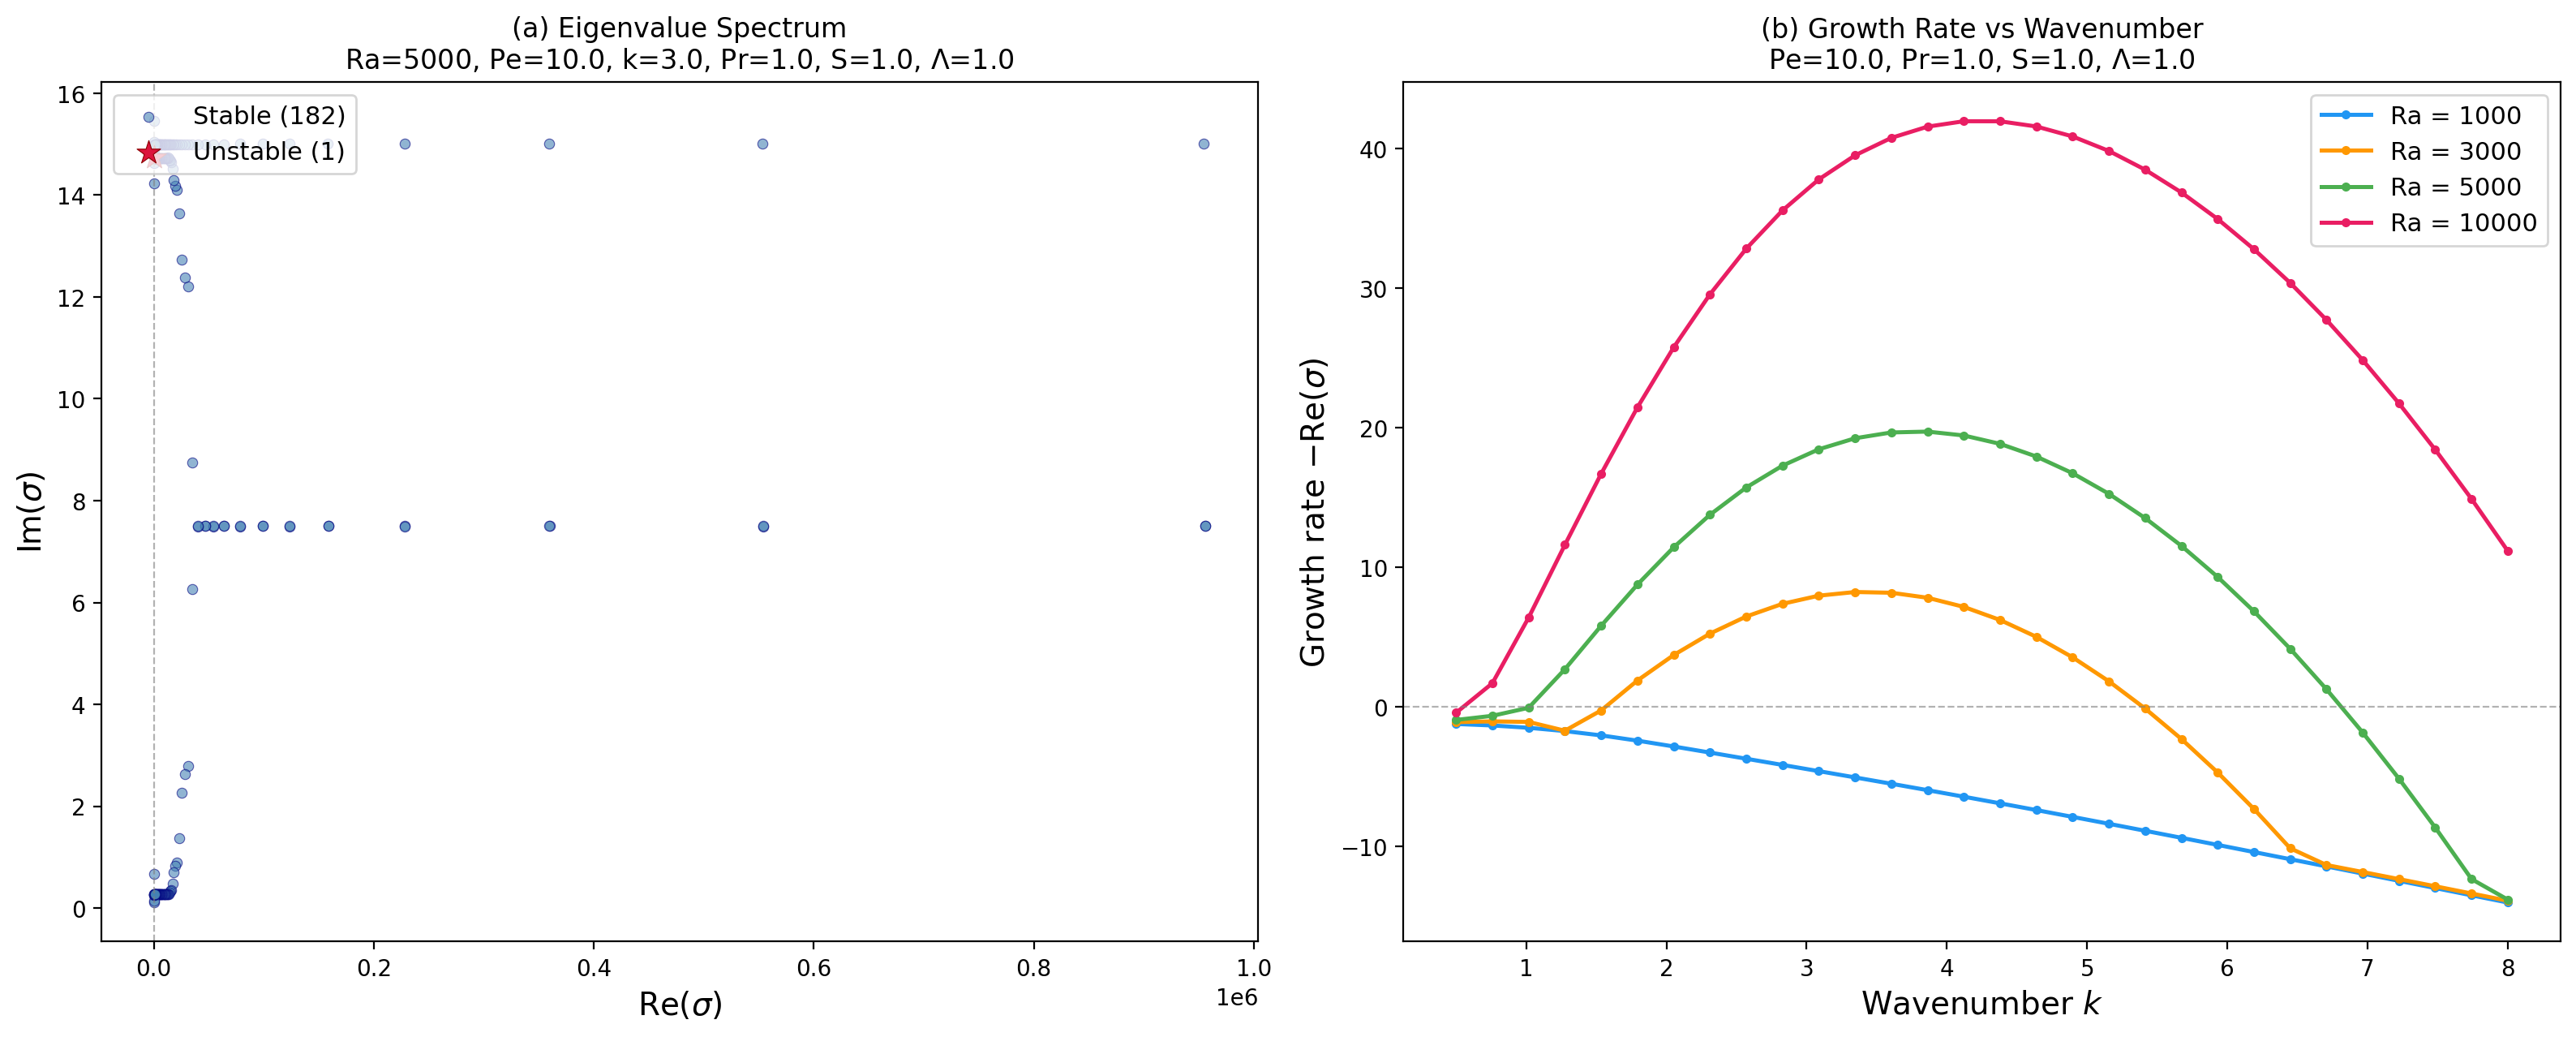
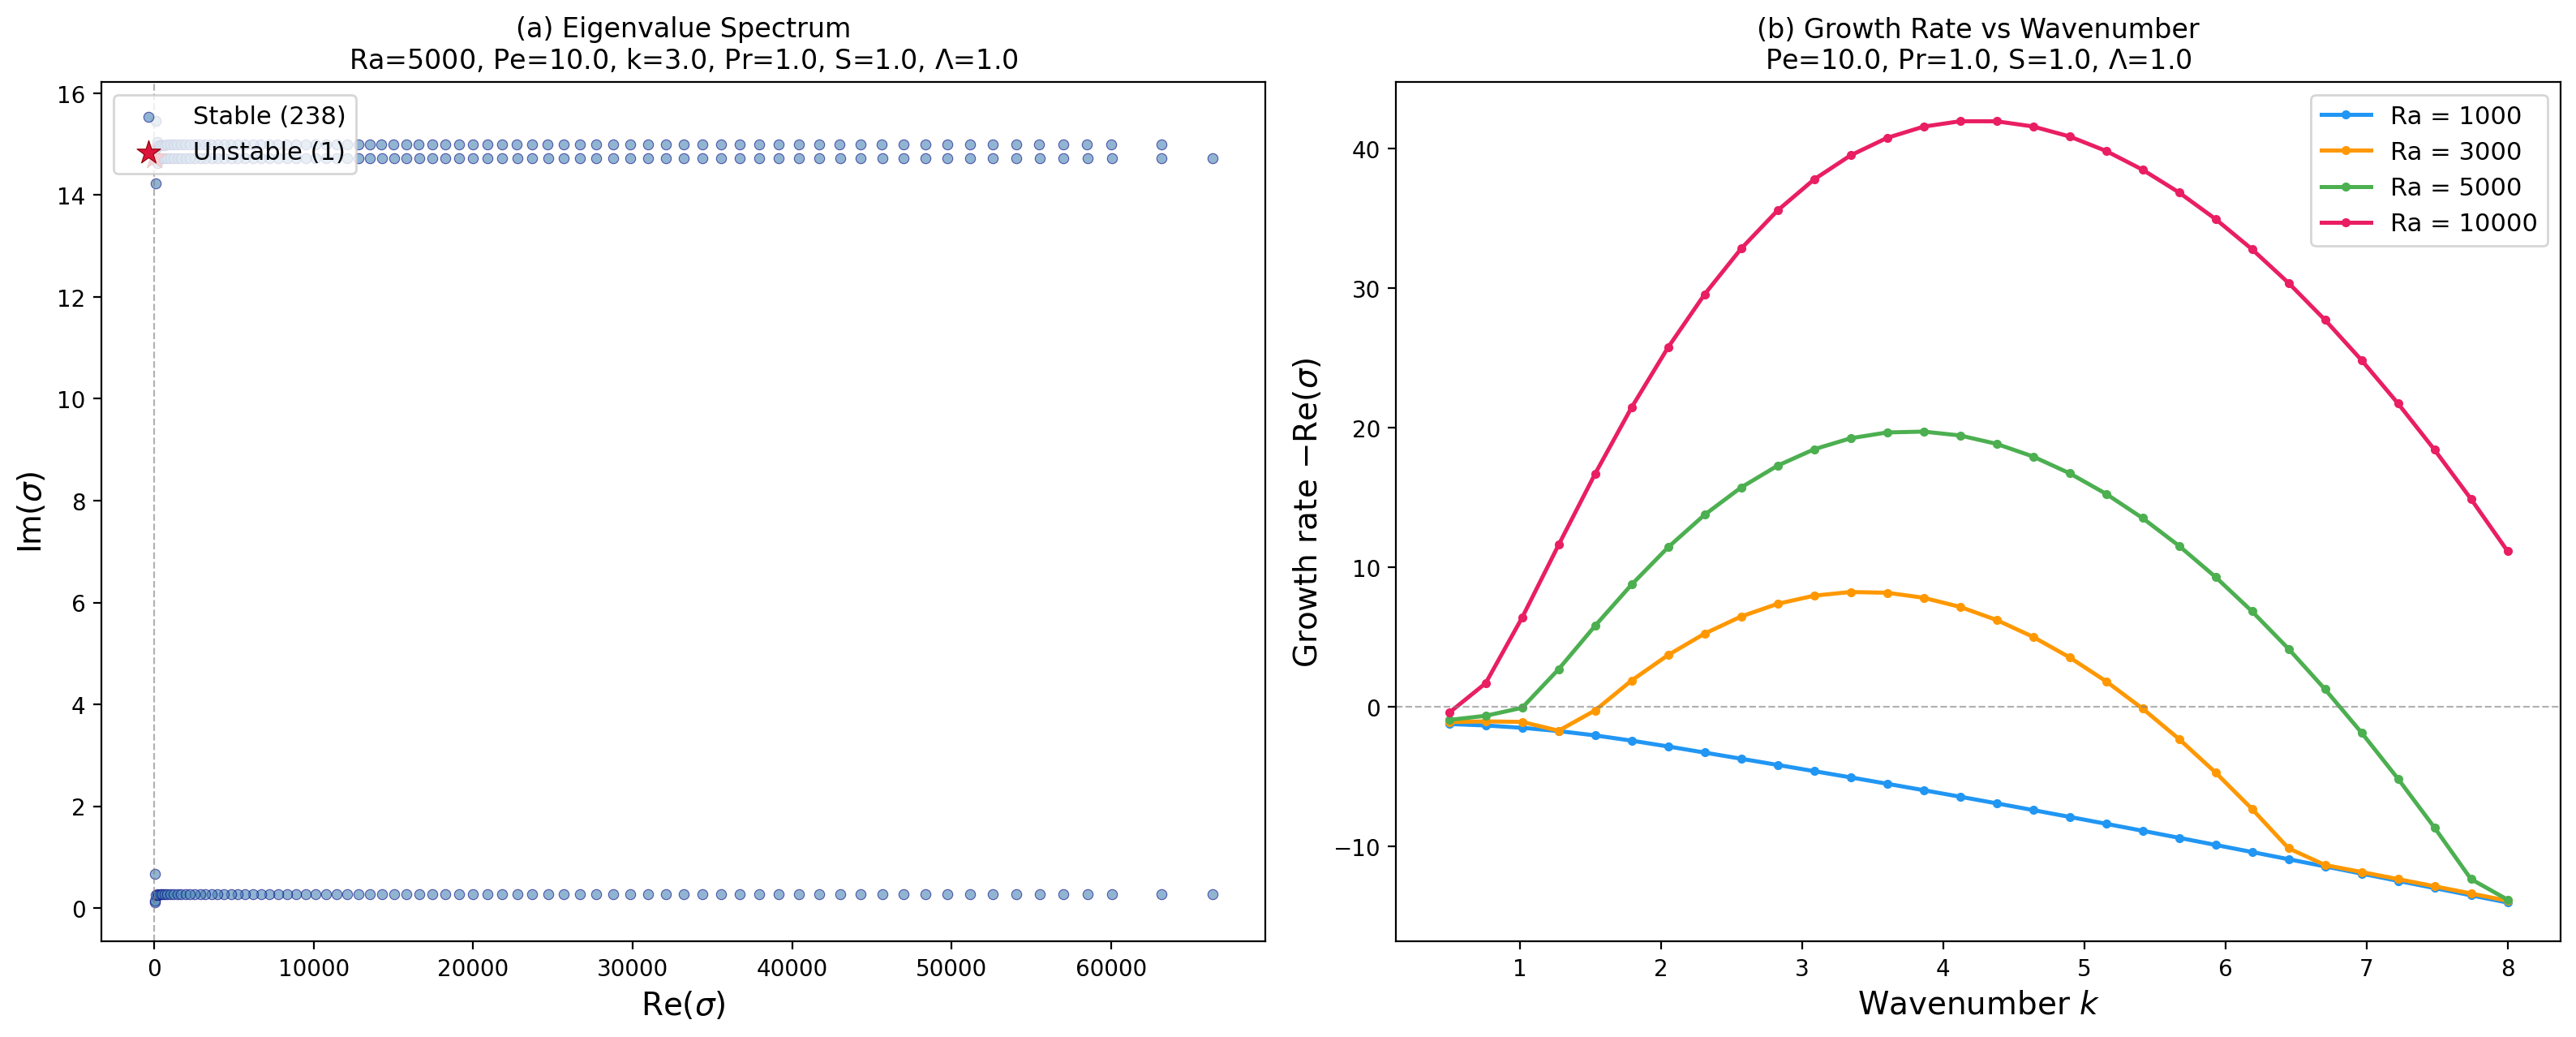
#

diff --git a/Topaldodi/der.py b/Topaldodi/der.py
@@ -1,302 +1,0 @@
-"""
-===========================================================================
-Eigenvalue Solver: Shear + Buoyancy + Phase Boundary Stability
-===========================================================================
-Solves the coupled Orr-Sommerfeld / Energy eigenvalue problem with
-a Stefan (phase-change) boundary condition using Dedalus v3.
-
-Reference: Toppaladoddi & Wettlaufer, J. Fluid Mech. (2019)
-           (extended to keep full time-dependence in the coupled w-θ system)
-
-Convention:  perturbations ~ exp(i k x - σ t)
-             Re(σ) > 0  →  perturbation decays  (STABLE)
-             Re(σ) < 0  →  perturbation grows    (UNSTABLE)
-
-System (on z ∈ [0, 1]):
-  OS:     σ p + Pr(D²−γ²)p − ikPeU p − γ² Ra Pr / Pe · θ = 0
-  Defn:   (D²−γ²)w = p
-  Energy: σ θ + (D²−γ²)θ − ikPeU θ + Pe w = 0
-
-  where  p = (D²−γ²)w  is the "vorticity",  U(z) = 1−z  (Couette)
-
-BCs:
-  z = 0:  w = 0,  Dw = 0,  θ = 0       (rigid hot wall)
-  z = 1:  w = 0,  Dw = −ik θ(1)         (no-slip on perturbed interface)
-          Dθ(1) + γ coth(γΛ) θ(1) − σ Λ S θ(1) = 0   (Stefan / Robin)
-
-Solid is solved analytically (quasi-steady: μ = γ).
-===========================================================================
-"""
-
-import numpy as np
-import dedalus.public as d3
-import matplotlib.pyplot as plt
-import logging
-logger = logging.getLogger(__name__)
-
-
-# =========================================================================
-# SOLVER
-# =========================================================================
-
-def solve_evp(Ra, Pe, Pr, S, Lam, k, N=64):
-    """
-    Solve the eigenvalue problem for given parameters.
-
-    Parameters
-    ----------
-    Ra  : float – Rayleigh number
-    Pe  : float – Peclet number (> 0)
-    Pr  : float – Prandtl number
-    S   : float – Stefan number
-    Lam : float – Lambda = (T_m - T_c) / (T_h - T_m)
-    k   : float – streamwise wavenumber (m = 0 for 2-D)
-    N   : int   – Chebyshev resolution
-
-    Returns
-    -------
-    eigenvalues : 1-D complex array
-    """
-
-    gamma2 = k**2
-    gamma_val = abs(k)
-
-    # -- coordinate & basis -------------------------------------------
-    zcoord = d3.Coordinate('z')
-    dist   = d3.Distributor(zcoord, dtype=np.complex128)
-    zbasis = d3.Chebyshev(zcoord, size=N, bounds=(0, 1))
-
-    # -- fields -------------------------------------------------------
-    w      = dist.Field(name='w',      bases=zbasis)
-    wz     = dist.Field(name='wz',     bases=zbasis)
-    p      = dist.Field(name='p',      bases=zbasis)   # (D^2 - gamma^2) w
-    pz     = dist.Field(name='pz',     bases=zbasis)
-    theta  = dist.Field(name='theta',  bases=zbasis)
-    thetaz = dist.Field(name='thetaz', bases=zbasis)
-    sigma  = dist.Field(name='sigma')
-
-    # base-state velocity  U(z) = 1 - z
-    z = dist.local_grid(zbasis)
-    U = dist.Field(name='U', bases=zbasis)
-    U['g'] = 1.0 - z
-
-    # -- tau fields (6 total: 2 per 2nd-order equation) ---------------
-    tau_w1  = dist.Field(name='tau_w1')
-    tau_w2  = dist.Field(name='tau_w2')
-    tau_p1  = dist.Field(name='tau_p1')
-    tau_p2  = dist.Field(name='tau_p2')
-    tau_th1 = dist.Field(name='tau_th1')
-    tau_th2 = dist.Field(name='tau_th2')
-
-    # -- operators ----------------------------------------------------
-    dz = lambda A: d3.Differentiate(A, zcoord)
-    lift_basis = zbasis.derivative_basis(1)
-    lift = lambda A, n: d3.Lift(A, lift_basis, n)
-
-    # -- solid gradient (quasi-steady: mu = gamma) --------------------
-    if gamma_val * Lam > 1e-10:
-        gcoth = gamma_val / np.tanh(gamma_val * Lam)
-    else:
-        gcoth = 1.0 / Lam                 # limiting form
-
-    buoy = gamma2 * Ra * Pr / Pe           # buoyancy coupling coefficient
-
-    # -- build eigenvalue problem -------------------------------------
-    problem = d3.EVP(
-        [w, wz, p, pz, theta, thetaz,
-         tau_w1, tau_w2, tau_p1, tau_p2, tau_th1, tau_th2],
-        eigenvalue=sigma,
-        namespace=locals()
-    )
-
-    # first-order reductions
-    problem.add_equation("dz(w)     - wz     + lift(tau_w1,  -1) = 0")
-    problem.add_equation("dz(p)     - pz     + lift(tau_p1,  -1) = 0")
-    problem.add_equation("dz(theta) - thetaz + lift(tau_th1, -1) = 0")
-
-    # definition:  p = (D^2 - gamma^2) w
-    problem.add_equation(
-        "dz(wz) - gamma2*w - p + lift(tau_w2, -1) = 0"
-    )
-
-    # Orr-Sommerfeld:
-    #   sigma * p  +  Pr (D^2 - gamma^2) p  -  ik Pe U p  -  buoy * theta = 0
-    problem.add_equation(
-        "sigma*p + Pr*(dz(pz) - gamma2*p) - 1j*k*Pe*U*p "
-        "- buoy*theta + lift(tau_p2, -1) = 0"
-    )
-
-    # Energy:
-    #   sigma * theta  +  (D^2 - gamma^2) theta  -  ik Pe U theta  +  Pe w = 0
-    problem.add_equation(
-        "sigma*theta + dz(thetaz) - gamma2*theta "
-        "- 1j*k*Pe*U*theta + Pe*w + lift(tau_th2, -1) = 0"
-    )
-
-    # -- boundary conditions (6) --------------------------------------
-    # z = 0  (rigid hot wall)
-    problem.add_equation("w(z=0)     = 0")              # no penetration
-    problem.add_equation("wz(z=0)    = 0")              # no slip
-    problem.add_equation("theta(z=0) = 0")              # fixed temperature
-
-    # z = 1  (solid-liquid interface)
-    problem.add_equation("w(z=1) = 0")                  # no penetration
-    problem.add_equation(                               # no slip: Dw = -ik theta(1)
-        "wz(z=1) + 1j*k*theta(z=1) = 0"
-    )
-    problem.add_equation(                               # Stefan / Robin BC
-        "-sigma*Lam*S*theta(z=1) + thetaz(z=1) + gcoth*theta(z=1) = 0"
-    )
-
-    # -- solve --------------------------------------------------------
-    solver = problem.build_solver()
-    
-    # In Dedalus v3, the matrices for the 1D EVP are in the first subproblem
-    subproblem = solver.subproblems[0]
-    
-    # Extract the sparse matrices (L and M)
-    L_sparse = subproblem.L_ext
-    M_sparse = subproblem.M_ext
-    
-    # Convert to dense numpy arrays so you can print or inspect them
-    L_dense = L_sparse.toarray()
-    M_dense = M_sparse.toarray()
-    
-    # Print the shapes (it will be an (8N+9) x (8N+9) matrix)
-    print(f"L matrix shape: {L_dense.shape}")
-    print(f"M matrix shape: {M_dense.shape}")
-    
-    # Plot the "sparsity pattern" (shows exactly where the non-zero elements are)
-    import matplotlib.pyplot as plt
-    fig, (ax1, ax2) = plt.subplots(1, 2, figsize=(12, 6))
-    
-    # spy() plots a dot for every non-zero element in the matrix
-    ax1.spy(L_dense, markersize=1, color='navy')
-    ax1.set_title("L Matrix (Spatial Physics & BCs)")
-    
-    ax2.spy(M_dense, markersize=1, color='crimson')
-    ax2.set_title("M Matrix (Time Derivative / $\sigma$)")
-    
-    plt.tight_layout()
-    plt.savefig('matrix_structure.png', dpi=200)
-    plt.show()
-    
-    # You can also print the full matrices to the console or save to a text file:
-    # np.savetxt("L_matrix.csv", np.real(L_dense), delimiter=",")
-    # np.savetxt("M_matrix.csv", np.real(M_dense), delimiter=",")
-    
-    # Now solve the dense eigenvalue problem
-    solver.solve_dense(subproblem)
-    
-    return solver.eigenvalues
-
-
-def filter_eigenvalues(evals, cutoff=1e5):
-    """Remove spurious eigenvalues with very large magnitude."""
-    good = (np.isfinite(evals)) & (np.abs(evals) < cutoff)
-    return evals[good]
-
-
-def most_unstable(evals):
-    """
-    Return the most unstable eigenvalue.
-    With e^{-sigma t}: most unstable = most negative Re(sigma).
-    Growth rate = -Re(sigma);  positive means growing.
-    """
-    if len(evals) == 0:
-        return np.nan + 0j
-    return evals[np.argmin(evals.real)]
-
-
-# =========================================================================
-# MAIN: compute & plot
-# =========================================================================
-
-if __name__ == "__main__":
-
-    # -- parameters ---------------------------------------------------
-    Pr  = 1.0
-    S   = 1.0
-    Lam = 1.0
-    Pe  = 10.0
-    N   = 64        # Chebyshev modes
-
-    # =================================================================
-    # PLOT 1:  Eigenvalue spectrum  (sigma_r  vs  sigma_i)
-    # =================================================================
-    Ra_spec = 5000.0
-    k_spec  = 3.0
-
-    print(f"Computing spectrum: Ra={Ra_spec}, Pe={Pe}, k={k_spec} ...")
-    evals_raw = solve_evp(Ra_spec, Pe, Pr, S, Lam, k_spec, N)
-    evals     = filter_eigenvalues(evals_raw)
-
-    mu = most_unstable(evals)
-    print(f"  Most unstable eigenvalue: sigma = {mu:.6f}")
-    print(f"  Growth rate -Re(sigma)         = {-mu.real:.6f}")
-
-    # =================================================================
-    # PLOT 2:  Growth rate  vs  wavenumber  for several Ra
-    # =================================================================
-    k_vals  = np.linspace(0.5, 8.0, 30)
-    Ra_list = [1000, 3000, 5000, 10000]
-    colors  = ['#2196F3', '#FF9800', '#4CAF50', '#E91E63']
-
-    print("\nComputing growth-rate curves ...")
-    growth_data = {}
-    for Ra_val in Ra_list:
-        rates = []
-        for kv in k_vals:
-            ev = filter_eigenvalues(solve_evp(Ra_val, Pe, Pr, S, Lam, kv, N))
-            sig = most_unstable(ev)
-            rates.append(-sig.real if np.isfinite(sig) else np.nan)
-        growth_data[Ra_val] = np.array(rates)
-        print(f"  Ra = {Ra_val:>6.0f}  done  "
-              f"(max growth rate = {np.nanmax(rates):.4f})")
-
-    # =================================================================
-    # FIGURE
-    # =================================================================
-    fig, axes = plt.subplots(1, 2, figsize=(15, 6))
-
-    # -- Panel (a): spectrum ------------------------------------------
-    ax = axes[0]
-   
-
-    ax.scatter(evals.real , evals.imag, s=18, c='steelblue',
-               alpha=0.6, edgecolors='navy', linewidths=0.4,
-               label=f'Stable ({len(stable)})')
-   
-
-    ax.axvline(0, color='grey', ls='--', lw=0.8, alpha=0.6)
-    ax.set_xlabel(r'$\mathrm{Re}(\sigma)$', fontsize=14)
-    ax.set_ylabel(r'$\mathrm{Im}(\sigma)$', fontsize=14)
-    ax.set_title(
-        f'(a) Eigenvalue spectrum\n'
-        f'Ra={Ra_spec:.0f}, Pe={Pe}, k={k_spec}, Pr={Pr}, S={S}, '
-        r'$\Lambda$' + f'={Lam}',
-        fontsize=12)
-    ax.legend(fontsize=11, loc='upper left')
-    ax.set_xlim(-60, 200)
-
-    # -- Panel (b): growth rate vs k ----------------------------------
-    ax2 = axes[1]
-    for Ra_val, color in zip(Ra_list, colors):
-        ax2.plot(k_vals, -growth_data[Ra_val], '-o', color=color,
-                 markersize=3, lw=1.8, label=f'Ra = {Ra_val:.0f}')
-
-    ax2.axhline(0, color='grey', ls='--', lw=0.8, alpha=0.6)
-    ax2.set_xlabel('Wavenumber  $k$', fontsize=14)
-    ax2.set_ylabel(r'Growth rate  $-\mathrm{Re}(\sigma)$', fontsize=14)
-    ax2.set_title(
-        f'(b) Growth rate vs wavenumber\n'
-        f'Pe={Pe}, Pr={Pr}, S={S}, '
-        r'$\Lambda$' + f'={Lam}',
-        fontsize=12)
-    ax2.legend(fontsize=11)
-
-    plt.tight_layout()
-    plt.savefig('stability_spectrum.png', dpi=200, bbox_inches='tight')
-    plt.show()
-    print("\nSaved figure -> stability_spectrum.png")
-  